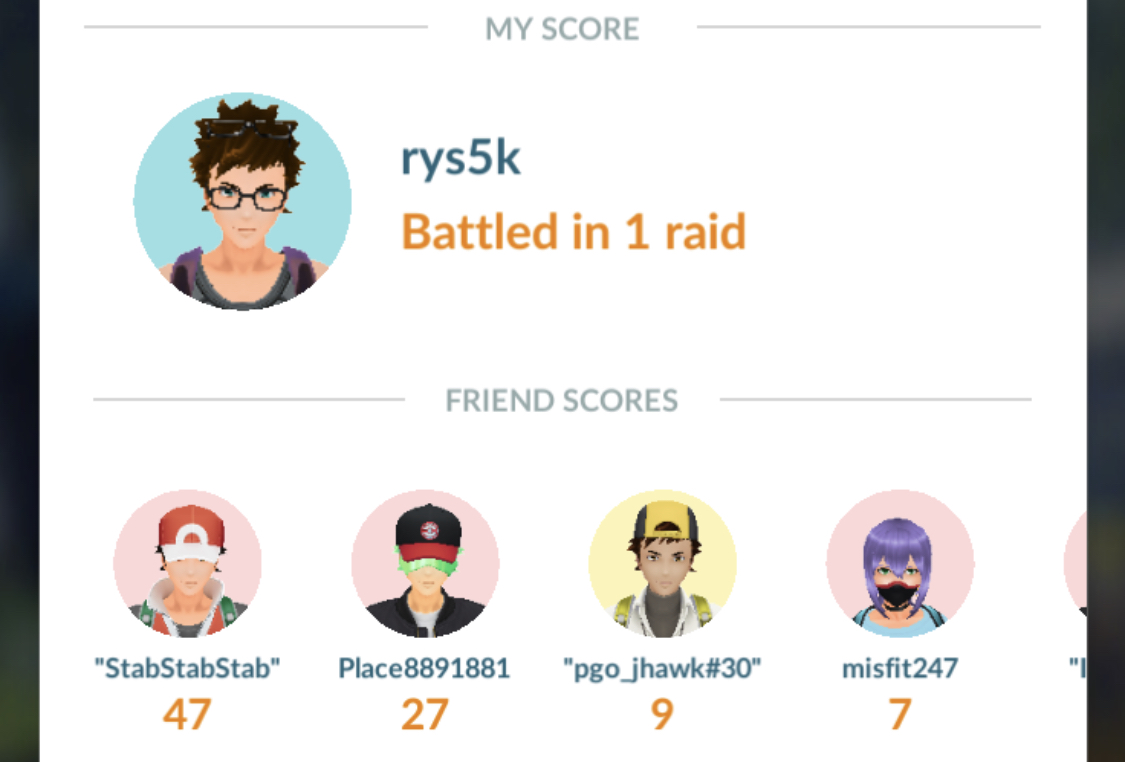
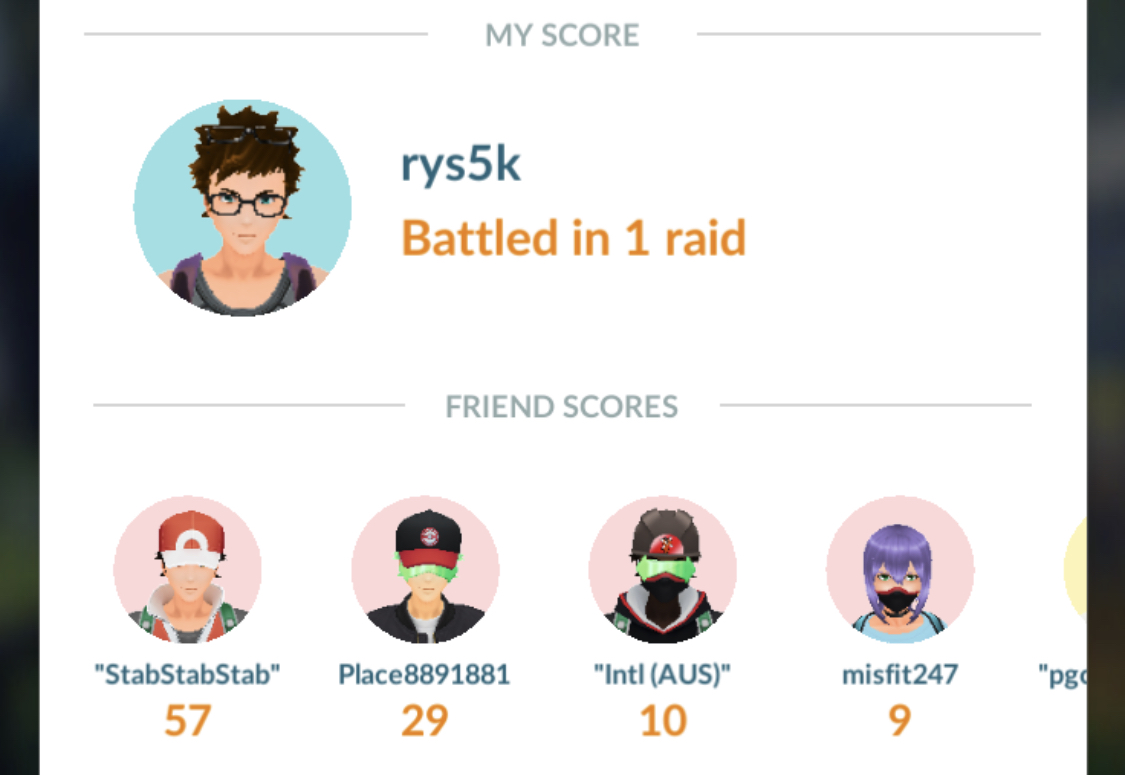
Create CNAME

diff --git a/pages/sky_pls.md b/pages/sky_pls.md
@@ -5,6 +5,6 @@ title: Sky raid tracker
 
 How many raids have sky done?
 
-47. 47 Raids
+57 Raids
 
 ![Sky Raid Count](../pics/sky_progress.jpg)
